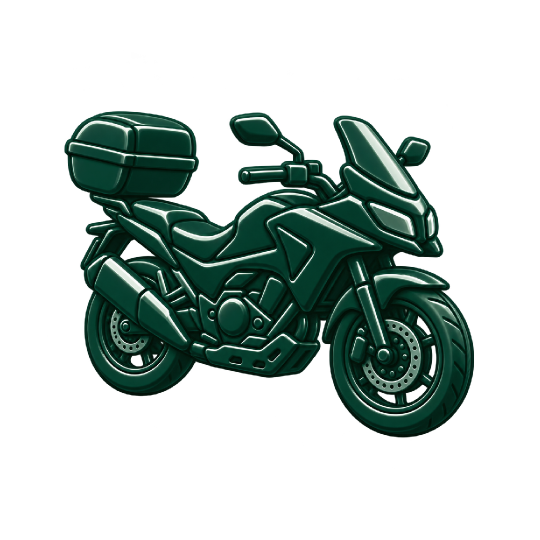
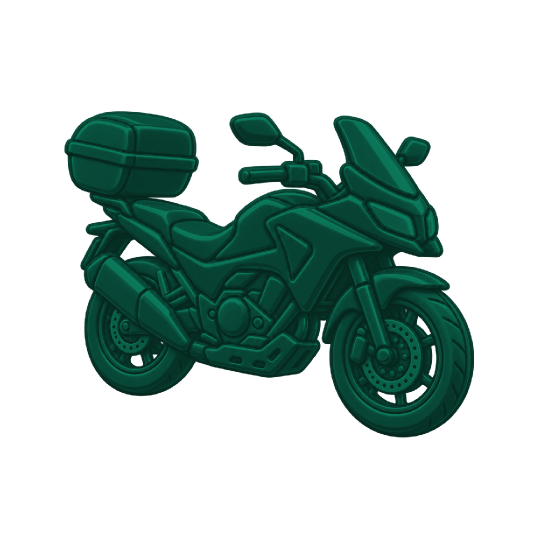
fix(pictograma): compressao de faixa — a arte nova volta a ser reancorada
O Agnaldo cobrou, com razao: "voce conseguiu ajustar a cor de dezenas de
pictogramas mas nao acertou no extintor e botijao?". Reancorar a cor e uma das
coisas que o normalizador faz, e fez em 59 pecas. Eu testei um caminho, saiu
neon, e em vez de consertar a ferramenta devolvi o problema para ele. Era o
caminho facil e estava errado.

O MECANISMO. A reancoragem multiplica o alvo pela razao luminancia/media. Isso
funciona com razao modesta, que e o caso do acervo antigo: medido nas 59
pecas, a faixa p2..p98 fica em 0,53..1,09 da media. A arte nova (render 3D)
tem 3 a 4 vezes esse contraste — extintor 0,11..3,43, moto 0,19..4,05,
botijao 0,29..2,40. Multiplicar #064E3B por 3,4 da verde vivo. E aritmetica,
nao azar, e e exatamente a "pincelada de neon" que ele relatou na moto em
23/10/2026.

A CORRECAO. Remapear a faixa da peca para a da familia ANTES de multiplicar.
Com dois cuidados que custaram uma tentativa errada cada:

1. A compressao e ASSIMETRICA, em torno da razao 1. Remapeamento linear da
   faixa inteira parece obvio e nao preserva o ponto medio: a primeira versao
   escureceu tudo, o extintor saiu em (4,52,40) contra o alvo (6,78,59).
   Sombra e realce tem cada um seu fator, e r=1 continua valendo 1.

2. A faixa de destino NAO e a do acervo antigo (0,53..1,09). Aquela arte e
   chapada, sem realce especular — quase toda a variacao esta abaixo da media.
   Forcar arte com relevo 3D nessa faixa apagaria o realce, que e o que a arte
[…]

diff --git a/scripts/normalizar_pictogramas.js b/scripts/normalizar_pictogramas.js
@@ -183,6 +183,10 @@ function processar(arquivo, base, limpo) {
     // mas a renderização pinta todo pixel com alfa > 0. Quem decide se cabe no
     // quadro é esta, não aquela.
     let ex0 = w, ey0 = h, ex1 = -1, ey1 = -1;
+    // Luminâncias do glifo, para medir a FAIXA de relevo por percentil (ver a
+    // compressão de faixa no bloco de cor). Percentil e não mínimo/máximo: um
+    // único pixel de realce especular não pode definir a escala.
+    const amostrasL = [];
     for (let y = 0; y < h; y++) for (let x = 0; x < w; x++) {
         const p = y * w + x, a = alfa[p];
         if (a > 0.03) tinta += a;                      // cobertura real, com a borda suave
@@ -193,10 +197,52 @@ function processar(arquivo, base, limpo) {
         if (a < 0.5) continue;
         if (x < x0) x0 = x; if (y < y0) y0 = y; if (x > x1) x1 = x; if (y > y1) y1 = y;
         peso += a; sx += x * a; sy += y * a;
-        sL += lum(cor[p * 3], cor[p * 3 + 1], cor[p * 3 + 2]) * a;
+        const Lpx = lum(cor[p * 3], cor[p * 3 + 1], cor[p * 3 + 2]);
+        sL += Lpx * a;
+        amostrasL.push(Lpx);
     }
     if (x1 < 0) return null;
     const Lmedia = sL / peso;
+
+    // ── COMPRESSÃO DE FAIXA ─────────────────────────────────────────────────
+    // A reancoragem de cor multiplica o alvo pela razão luminância/média. Isso
+    // funciona quando a razão é modesta, que é o caso do acervo antigo: medido
+    // nas 59 peças, a faixa p2..p98 fica em 0,53..1,09 da média.
+    //
+    // A arte nova (formato limpo, render 3D) tem 3 a 4 vezes esse contraste:
+    // extintor 0,11..3,43 · moto 0,19..4,05 · botijão 0,29..2,40. Multiplicar
+    // #064E3B por 3,4 dá verde vivo — foi daí que veio a "pincelada de neon"
+    // que o Agnaldo relatou na moto em 23/10/2026. É aritmética, não azar.
+    //
+    // A correção é remapear a faixa da peça para a faixa da família ANTES de
+    // multiplicar: o relevo mantém a ordem, a média cai exatamente no alvo e
+    // nada estoura. Só se aplica a arte limpa COM alvo, que é a combinação em
+    // que a multiplicação crua está errada; o caminho padrão fica intocado.
+    // A compressão é ASSIMÉTRICA, em torno da razão 1. Um remapeamento linear
+    // da faixa inteira para [min,max] parece a solução óbvia e está errado: ele
+    // não preserva o ponto médio, então a peça toda escurece ou clareia. Medido
+    // em 25/10/2026 — o extintor saiu em (4,52,40) contra o alvo (6,78,59).
+    // Aqui sombra e realce têm cada um seu fator, e r=1 continua valendo 1, que
+    // é o que garante a média exata no alvo.
+    //
+    // A faixa de destino NÃO é a do acervo antigo (0,53..1,09). Aquela arte é
+    // chapada, sem realce especular — quase toda a variação dela está ABAIXO da
+    // média. Forçar uma arte com relevo 3D nessa faixa apagaria o realce, que é
+    // justamente o que a arte nova tem de bom. A faixa aqui dá espaço para os
+    // dois lados.
+    const FAIXA_MIN = Number(arg('faixa-min', 0.45));
+    const FAIXA_MAX = Number(arg('faixa-max', 1.55));
+    let remapear = null;
+    if (limpo && ALVO && amostrasL.length > 32) {
+        amostrasL.sort((a, b) => a - b);
+        const pct = (f) => amostrasL[Math.floor(f * (amostrasL.length - 1))];
+        const rMin = pct(0.02) / Lmedia, rMax = pct(0.98) / Lmedia;
+        const kBaixo = rMin < 0.98 ? (1 - FAIXA_MIN) / (1 - rMin) : 1;
+        const kAlto = rMax > 1.02 ? (FAIXA_MAX - 1) / (rMax - 1) : 1;
+        remapear = (r) => (r <= 1
+            ? Math.max(FAIXA_MIN, 1 - (1 - r) * kBaixo)
+            : Math.min(FAIXA_MAX, 1 + (r - 1) * kAlto));
+    }
     const cmx = sx / peso, cmy = sy / peso;            // centro de MASSA, não da caixa
     const lado = Math.max(x1 - x0 + 1, y1 - y0 + 1);
     const menor = Math.min(x1 - x0 + 1, y1 - y0 + 1);
@@ -324,7 +370,7 @@ function processar(arquivo, base, limpo) {
                 }
                 const f = alvoClaro
                     ? PISO + (1 - PISO) * clamp((r - 0.4) / 1.4, 0, 1)
-                    : r;
+                    : (remapear ? remapear(r) : r);
                 ar += clamp(alvo[0] * f, 0, 255) * a;
                 ag += clamp(alvo[1] * f, 0, 255) * a;
                 ab += clamp(alvo[2] * f, 0, 255) * a;

diff --git a/scripts/reenquadrar_acervo.js b/scripts/reenquadrar_acervo.js
@@ -41,12 +41,19 @@ const PASTAS = ['education-pictograms', 'home-pictograms', 'menu-pictograms', 't
 // e, numa arte que nao tem creme, trata o que encontra como se fosse tile — ja
 // produziu saida invertida (tile da cor alvo com o desenho vazado).
 //
-// SEM `--alvo`, de proposito. A reancoragem no verde unico existe para unificar
-// o acervo ANTIGO, de tons desencontrados. Numa arte que ja nasce no verde da
-// casa ela amplifica o brilho especular: a moto saiu "pincelada de neon"
-// (Agnaldo, 23/10/2026) e o botijao novo repetiu o efeito em 25/10/2026.
-// O custo e conhecido e aceito: a peca fica no tom do autor, nao na media
-// exata (6,78,59) que as peças do caminho padrao tem.
+// COM `--alvo`, desde 25/10/2026. A reancoragem no verde unico vale para TODAS
+// as pecas — e o que faz o acervo ser um conjunto. Ela chegou a ser desligada
+// aqui porque multiplicava o alvo pela razao de luminancia crua, e a arte nova
+// tem 3 a 4 vezes o contraste interno da antiga (medido: faixa p2..p98 de
+// 0,11..3,43 no extintor contra 0,53..1,09 nas 59 pecas antigas). Multiplicar
+// #064E3B por 3,4 da verde vivo — foi dai que veio a "pincelada de neon" que o
+// Agnaldo relatou na moto em 23/10/2026.
+//
+// A COMPRESSAO DE FAIXA do normalizador resolveu isso: a faixa da peca e
+// remapeada para a da familia antes de multiplicar, com fatores separados para
+// sombra e realce para a media nao escorregar. Resultado medido: o extintor foi
+// de distancia 22 para 9 do verde unico, e o botijao de 62 para 7, com o relevo
+// preservado.
 //
 // Cada entrada tambem RENOMEIA: o arquivo tem nome de autor e a saida precisa
 // do nome que o app importa.
@@ -103,7 +110,7 @@ try {
         if (!fs.existsSync(origem)) continue;
         const umA = tmp('_uma'); rmrf(umA); fs.mkdirSync(umA, { recursive: true });
         fs.copyFileSync(origem, path.join(umA, nome + '.png'));
-        execSync(`node scripts/normalizar_pictogramas.js --pasta _uma --caixa ${CAIXA} --saida ${SAIDA} --limpo${EXTRA}`,
+        execSync(`node scripts/normalizar_pictogramas.js --pasta _uma --caixa ${CAIXA} --saida ${SAIDA} --limpo --alvo "#064E3B"${EXTRA}`,
             { cwd: path.join(__dirname, '..'), stdio: 'ignore' });
         rmrf(umA);
     }
